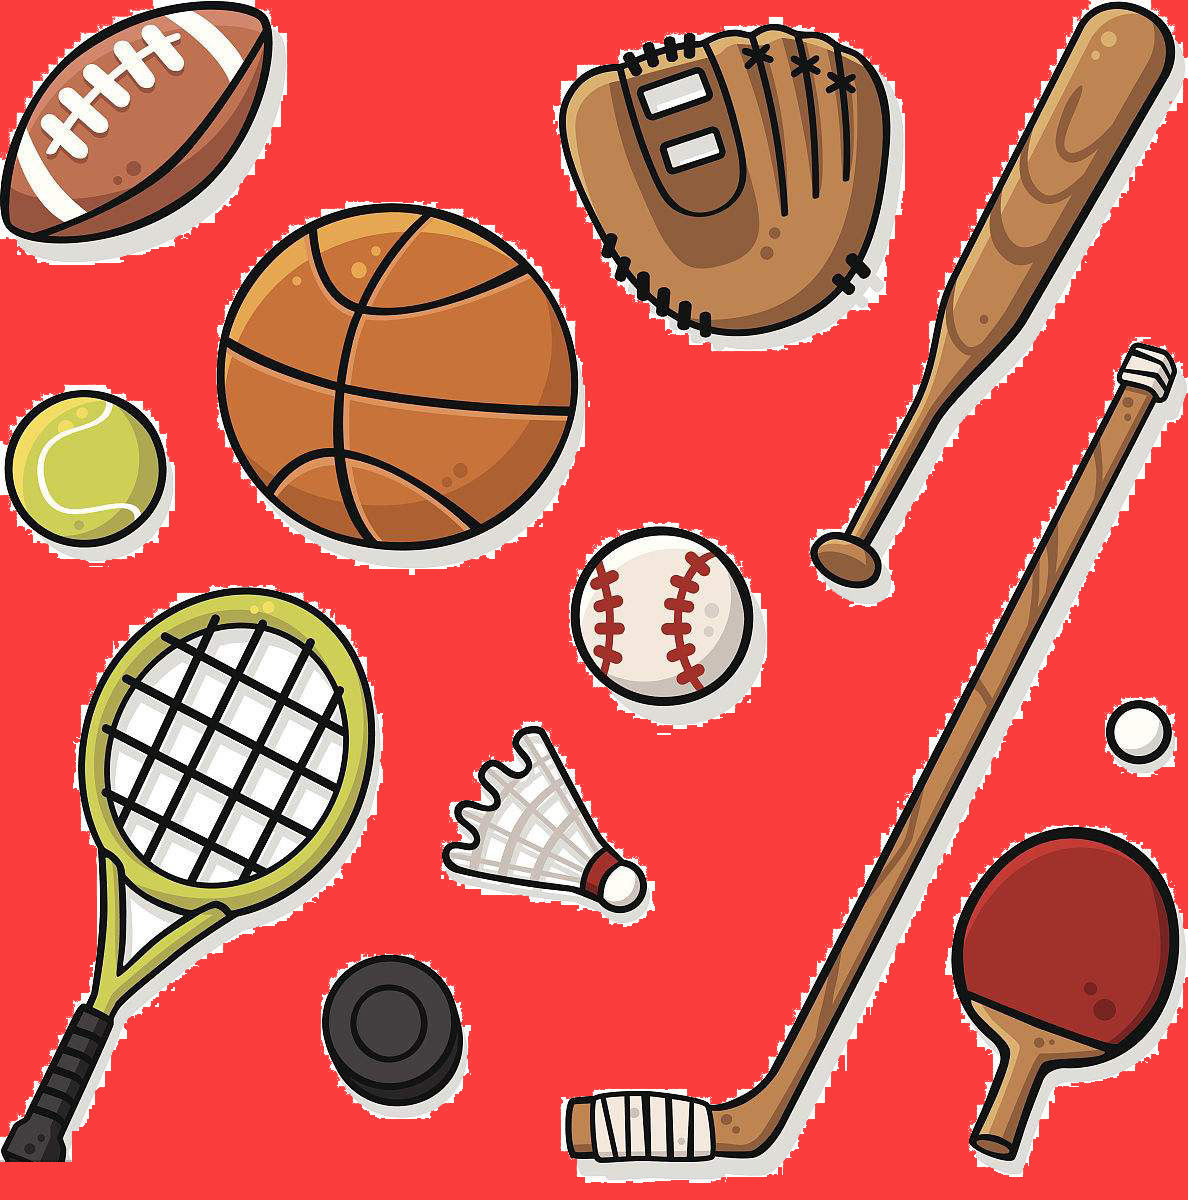
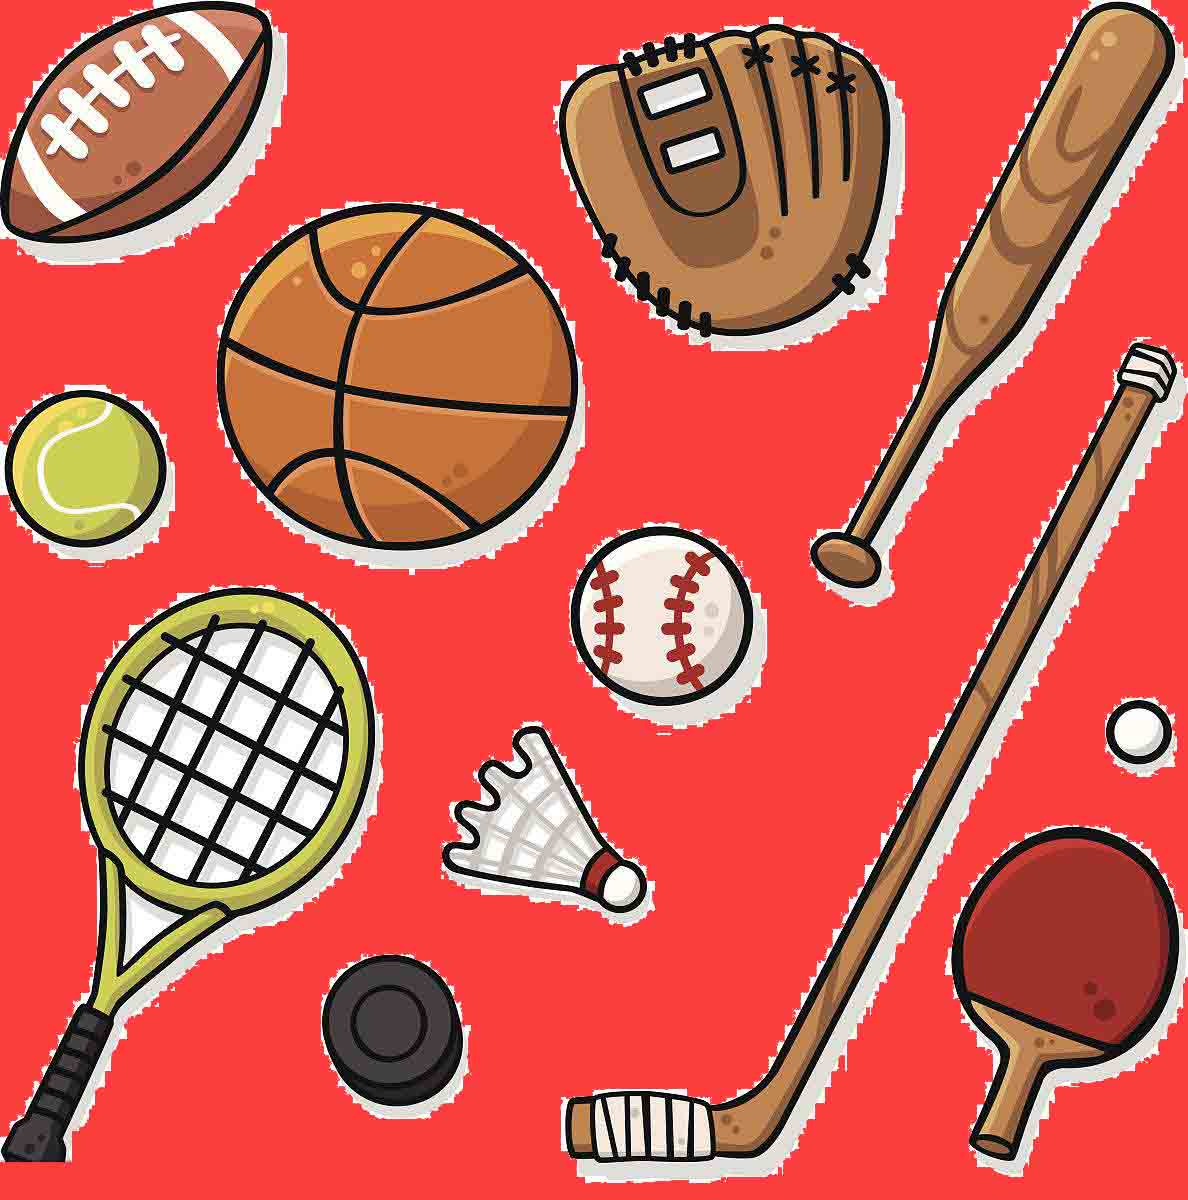
Add allowed host and compress the big image

diff --git a/templates/mainpage.html b/templates/mainpage.html
@@ -80,7 +80,7 @@
 		<p>游戏方面，一句话概括：三年dota1,四年dota2，唯一本命。CN DOTA, BEST DOTA!</p>
 	</div>
     <div class="descr-box" id="dev-descr">
-        <h2>编程_</h2>
+        <h2>编程</h2>
         <p>虽然进入大学才开始编程，但不得不承认编程给我带来了很大的乐趣。从最开始hello world的懵懂无知，再到算法，数据结构的逐步了解，再到实现一个个项目工程，每一次新的发现都能给我带来新的惊喜。在千辛万苦排除各种bug后程序运行正确的那一刹那，那种成就感是无可比拟的。</p>
 		<p>虽然是C++入门，但现在使用最多的还是python，无论是django搭建网站，还是Tensorflow跑神经网络，python丰富的库和简洁的语法提供了极大的便利，容我吹一句python是世界上最好的语言！</p>
 	</div>

diff --git a/mywebsite/settings.py b/mywebsite/settings.py
@@ -25,7 +25,7 @@ SECRET_KEY = 'v9csu341tg!m+nw=wz)thz2kl^ww(rvf8hv+^y3yvjm1+m8zmf'
 # SECURITY WARNING: don't run with debug turned on in production!
 DEBUG = True
 
-ALLOWED_HOSTS = []
+ALLOWED_HOSTS = ['39.106.26.175']
 
 
 # Application definition
